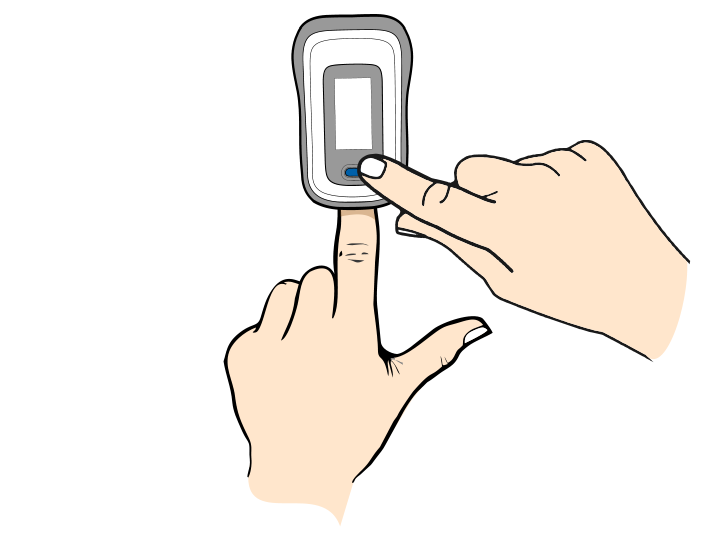
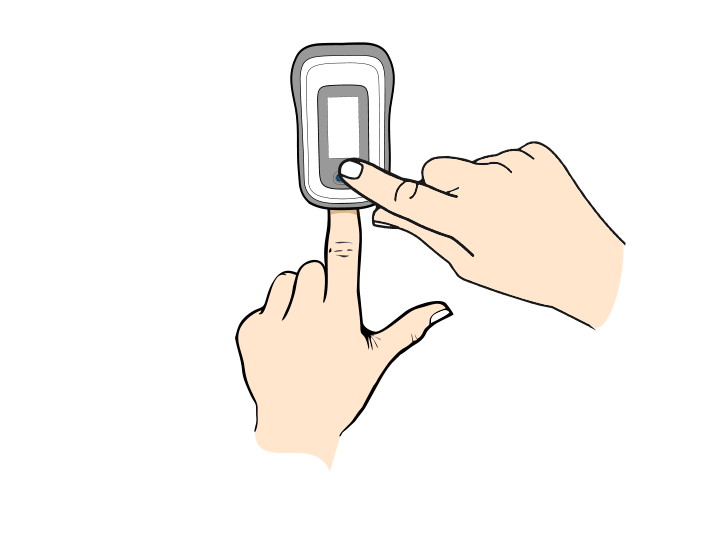
...

Changed region(s): [[0.306, 0.0, 0.9791, 0.9778]]

diff --git a/public/mobile/react/www/app/devices/BloodOxygen-measure.html b/public/mobile/react/www/app/devices/BloodOxygen-measure.html
@@ -47,7 +47,7 @@
                 <h4>Confirm your measurements, please.</h4>
             </div>
             <div class="fill">
-                <img src="images/oxymeter-measure-02.png" alt="Slide 1" class="img-responsive"/>
+                <img src="images/oxymeter-measure-03.png" alt="Slide 1" class="img-responsive"/>
             </div>
         </div>
         <div class="item">
@@ -57,7 +57,7 @@
                 <h4>Your oximeter measurements have been sent to the cloud.</h4>
             </div>
             <div class="fill">
-                <img src="images/oxymeter-measure-03.png" alt="Slide 1" class="img-responsive"/>
+                <img src="images/oxymeter-measure-04.png" alt="Slide 1" class="img-responsive"/>
             </div>
         </div>
     </div>
